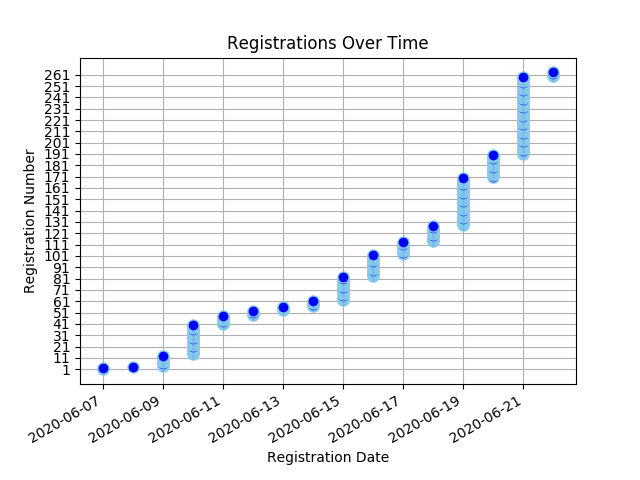
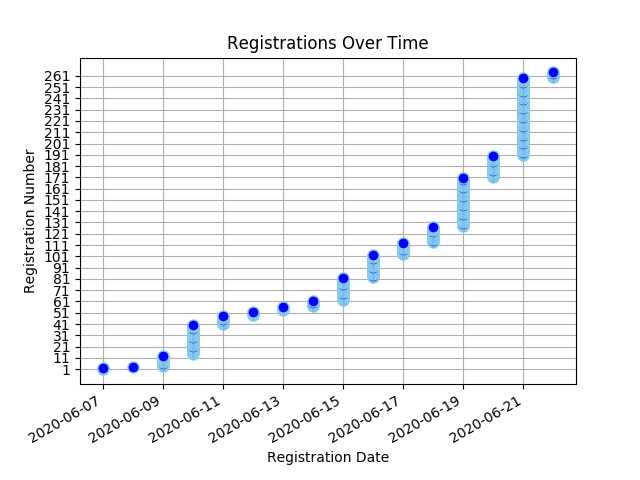
Registree stats backup on Mon Jun 22 09:29:01 SAST 2020

diff --git a/content/virtual_conf_stats/_index.md b/content/virtual_conf_stats/_index.md
@@ -16,7 +16,7 @@ draft: false
 </head>
 <body>
 <h1 style="color: #000000;">Virtual Convention Registration Stats</h1>
-<ul><li><strong>Number of Registrees</strong>: 263</li>
+<ul><li><strong>Number of Registrees</strong>: 264</li>
 </ul><a href="/docs/virtual_convention_stats.csv">Download registration details here</a>
 <h2>Registrees</h2>
 <table id="registreeTable" class="tablesorter" border="1" padding=1>
@@ -213,6 +213,7 @@ Club
 <tr><td>Reviglio, Roberto</td><td>Windhoek</td></tr>
 <tr><td>RICHARDSON, VANESSA</td><td>RAMSGATE</td></tr>
 <tr><td>Rigby, Moira</td><td>Kingsburgh</td></tr>
+<tr><td>Roman, Mike</td><td>Bergvliet</td></tr>
 <tr><td>Roman, Sandy</td><td>Bergvliet</td></tr>
 <tr><td>Rossouw, Mark</td><td>Tokai Lions Club</td></tr>
 <tr><td>Russell, Ingrid</td><td>Fish Hoek</td></tr>
